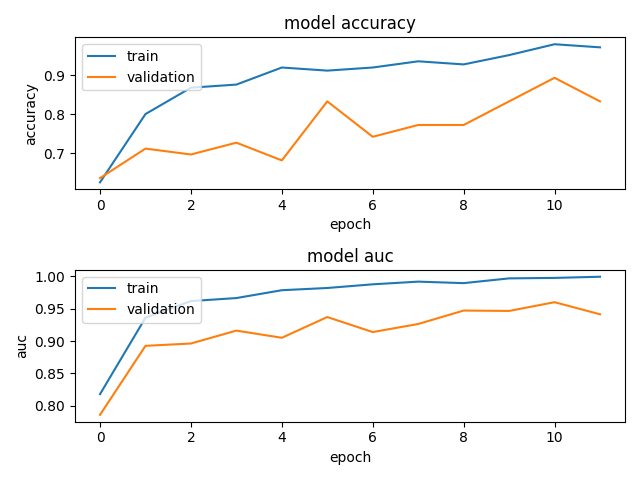
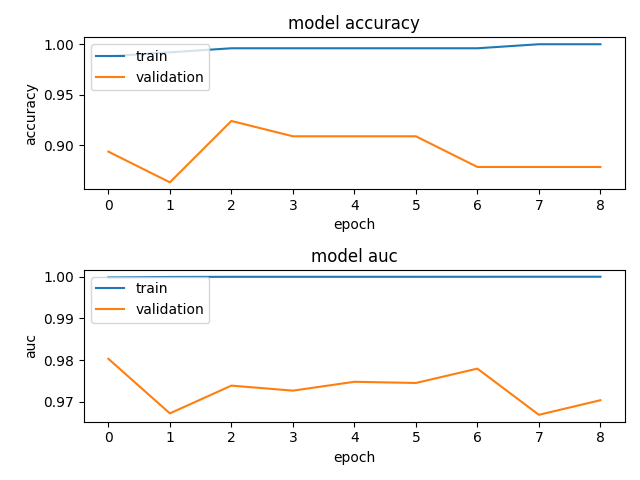
implemted hyperparam tuning, upped accuracy

diff --git a/script.py b/script.py
@@ -4,56 +4,95 @@ from tensorflow.keras.models import Sequential
 from tensorflow.keras.preprocessing.image import ImageDataGenerator
 from tensorflow.keras.callbacks import EarlyStopping
 from tensorflow.keras import layers
+import kerastuner as kt
 import matplotlib.pyplot as plt
 
+
 def generate_data():
-  training_data_generator = ImageDataGenerator(
-  rescale=1.0/255)
+    training_data_generator = ImageDataGenerator(
+        rescale=1.0/255)
 
-  training_iterator = training_data_generator.flow_from_directory("data/train", class_mode="categorical", color_mode="grayscale", target_size=(256,256), batch_size=1)
+    training_iterator = training_data_generator.flow_from_directory(
+        "data/train", class_mode="categorical", color_mode="grayscale", target_size=(256, 256), batch_size=1)
 
-  testing_iterator = training_data_generator.flow_from_directory("data/test", class_mode="categorical", color_mode="grayscale", target_size=(256,256), batch_size=1)
-  
-  return training_iterator, testing_iterator
+    testing_iterator = training_data_generator.flow_from_directory(
+        "data/test", class_mode="categorical", color_mode="grayscale", target_size=(256, 256), batch_size=1)
 
-def generate_model():
-  model = Sequential()
-  model.add(keras.Input(shape=(256,256, 1)))
-  model.add(tf.keras.layers.Conv2D(8,5,strides=2, activation='relu'))
-  model.add(tf.keras.layers.MaxPooling2D(pool_size=(2,2), strides=2))
-  model.add(tf.keras.layers.Conv2D(8,5,strides=2, activation='relu'))
-  model.add(tf.keras.layers.MaxPooling2D(pool_size=(2,2), strides=2))
-  model.add(layers.Flatten())
-  model.add(tf.keras.layers.Dense(8, activation='sigmoid'))
-  model.add(layers.Dense(3, activation='softmax'))
-  model.compile(optimizer=tf.keras.optimizers.Adam(learning_rate=0.001), loss = tf.keras.losses.CategoricalCrossentropy(), metrics=[tf.keras.metrics.CategoricalAccuracy(),tf.keras.metrics.AUC()])
- 
-  return model
+    return training_iterator, testing_iterator
+
+
+def generate_model(tuner):
+    model = Sequential()
+    model.add(keras.Input(shape=(256, 256, 1)))
+    
+    convunits = tuner.Int('conv2d_units', min_value=6, max_value=32, step=2)
+    strides = tuner.Int('strides', min_value=1, max_value=5, step=1)
+    size = tuner.Int('size', min_value=1, max_value=5, step=1)
+    model.add(tf.keras.layers.Conv2D(convunits, size,  strides= strides, activation='relu',padding="same"))
+    model.add(tf.keras.layers.MaxPooling2D(pool_size=(size, size), strides= strides,padding="same"))
+    model.add(tf.keras.layers.Conv2D(convunits, size, strides= strides, activation='relu',padding="same"))
+    model.add(tf.keras.layers.MaxPooling2D(pool_size=(size, size), strides= strides,padding="same"))
+
+    model.add(layers.Flatten())
+
+    denseunits = tuner.Int('dense_units', min_value=6, max_value=16, step=2)
+    model.add(tf.keras.layers.Dense(denseunits, activation='sigmoid'))
+
+    model.add(layers.Dense(3, activation='softmax'))
+
+    learning_rate = tuner.Choice('learning_rate', values=[1e-2, 1e-3, 1e-4])
+    model.compile(optimizer=tf.keras.optimizers.Adam(learning_rate=learning_rate), loss=tf.keras.losses.CategoricalCrossentropy(
+    ), metrics=[tf.keras.metrics.CategoricalAccuracy(), tf.keras.metrics.AUC()])
+
+    return model
+
 
 def generate_plot(history):
-  fig = plt.figure()
-  ax1 = fig.add_subplot(2, 1, 1)
-  ax1.plot(history.history['categorical_accuracy'])
-  ax1.plot(history.history['val_categorical_accuracy'])
-  ax1.set_title('model accuracy')
-  ax1.set_xlabel('epoch')
-  ax1.set_ylabel('accuracy')
-  ax1.legend(['train', 'validation'], loc='upper left')
-  ax2 = fig.add_subplot(2, 1, 2)
-  ax2.plot(history.history['auc'])
-  ax2.plot(history.history['val_auc'])
-  ax2.set_title('model auc')
-  ax2.set_xlabel('epoch')
-  ax2.set_ylabel('auc')
-  ax2.legend(['train', 'validation'], loc='upper left')
-  fig.tight_layout()
-  plt.savefig('static/my_plots.png')
-  
-training_iterator, testing_iterator = generate_data()  
-model = generate_model()
-history = model.fit(training_iterator, steps_per_epoch=251, epochs=12, validation_data=testing_iterator, validation_steps=66,callbacks=[EarlyStopping(monitor='loss', patience=3)])
+    fig = plt.figure()
+    ax1 = fig.add_subplot(2, 1, 1)
+    ax1.plot(history.history['categorical_accuracy'])
+    ax1.plot(history.history['val_categorical_accuracy'])
+    ax1.set_title('model accuracy')
+    ax1.set_xlabel('epoch')
+    ax1.set_ylabel('accuracy')
+    ax1.legend(['train', 'validation'], loc='upper left')
+    ax2 = fig.add_subplot(2, 1, 2)
+    ax2.plot(history.history['auc'])
+    ax2.plot(history.history['val_auc'])
+    ax2.set_title('model auc')
+    ax2.set_xlabel('epoch')
+    ax2.set_ylabel('auc')
+    ax2.legend(['train', 'validation'], loc='upper left')
+    fig.tight_layout()
+    plt.savefig('static/my_plots.png')
+
+
+tuner = kt.Hyperband(generate_model,
+                     objective='val_categorical_accuracy',
+                     max_epochs=10,
+                     factor=3,
+                     directory='hyperparam-tuning',
+                     project_name='covid-pneumonia-ml')
+training_iterator, testing_iterator = generate_data()
+stop = EarlyStopping(monitor='val_loss', patience=5)
+
+tuner.search(training_iterator, validation_data=testing_iterator, epochs=50,
+           callbacks=[stop])
+
+#Get the optimal hyperparameters
+best_hps = tuner.get_best_hyperparameters(num_trials=1)[0]
+
+model = tuner.hypermodel.build(best_hps)
+#model = generate_model()
+history = model.fit(training_iterator,validation_data=testing_iterator, epochs=10)
+
+val_acc_per_epoch = history.history['val_categorical_accuracy']
+best_epoch = val_acc_per_epoch.index(max(val_acc_per_epoch)) + 1
+
+hypermodel = tuner.hypermodel.build(best_hps)
+# Retrain the model
+history = model.fit(training_iterator,validation_data=testing_iterator,  epochs=best_epoch)
+
+eval_result = model.evaluate(testing_iterator)
+print("[test loss, test accuracy]:", eval_result)
 generate_plot(history)
-
-
-
-

diff --git a/README.md b/README.md
@@ -2,6 +2,6 @@
 
 [Dataset from Kraggle](https://www.kaggle.com/pranavraikokte/covid19-image-dataset)
 
-Accuracy: 83% (work in progress)
+Accuracy on Tests: 88% (work in progress)
 
 ![Plots](https://github.com/sabrinabutton/covid-pneumonia-ml/blob/main/static/my_plots.png)
